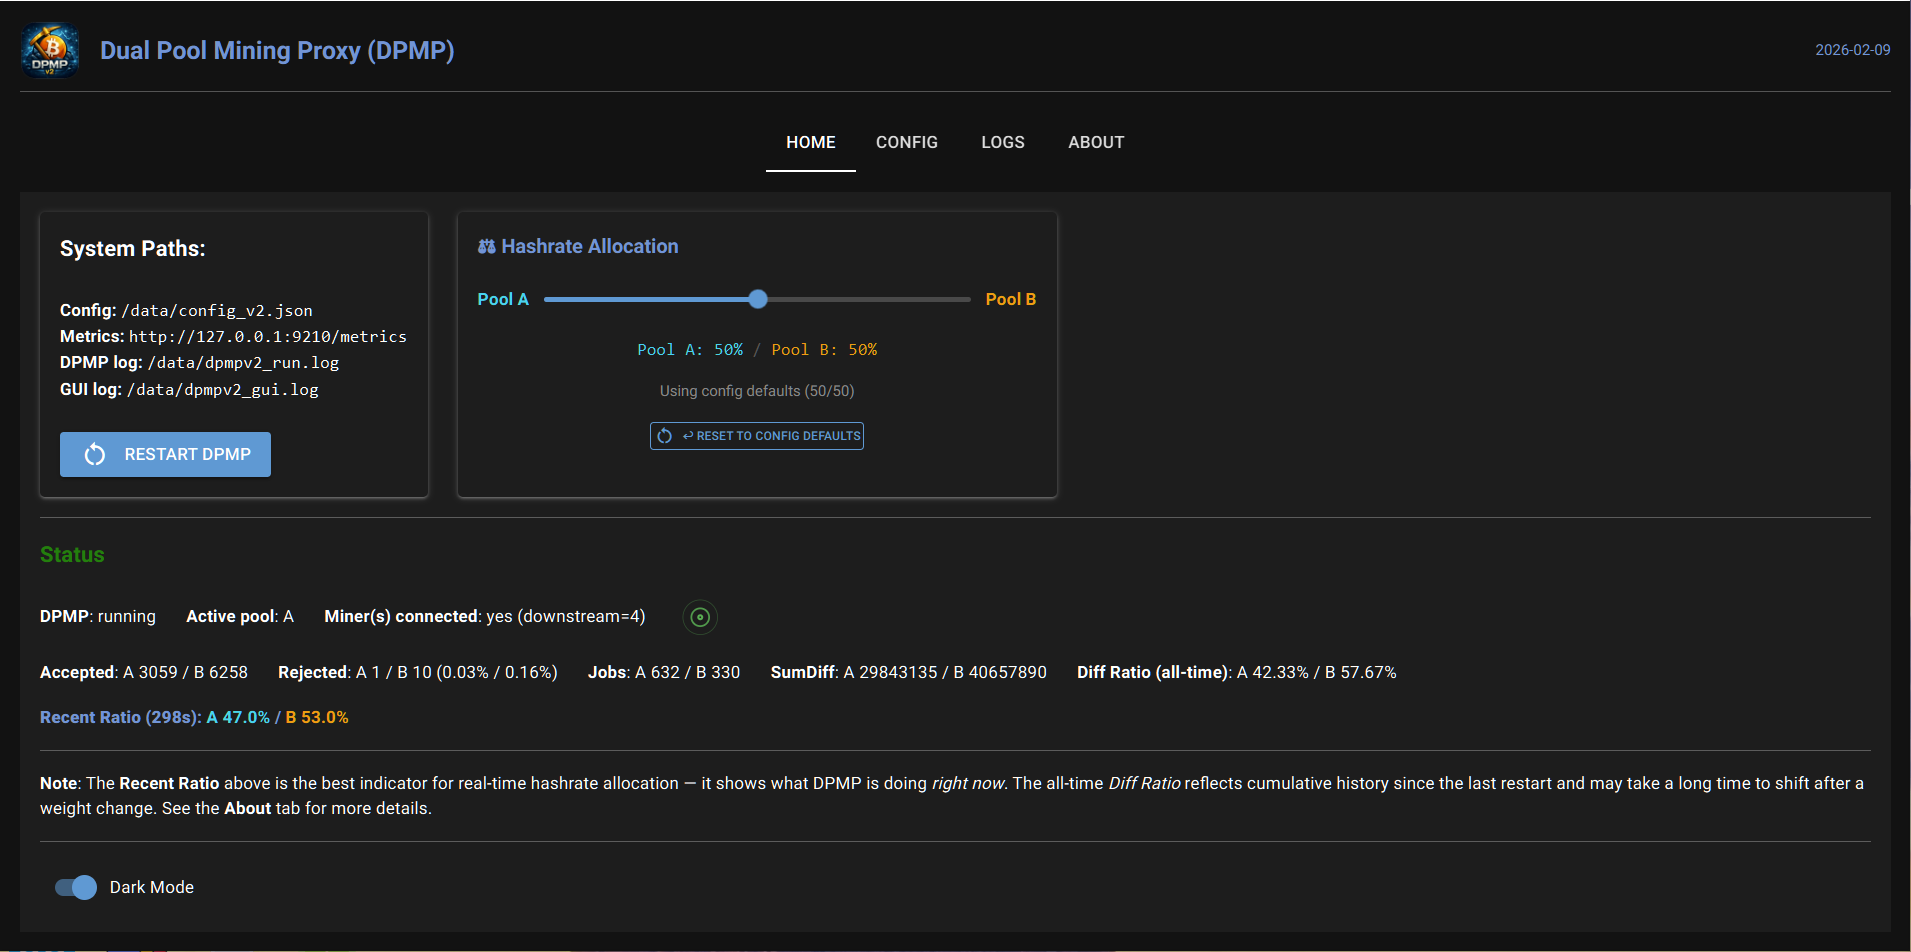
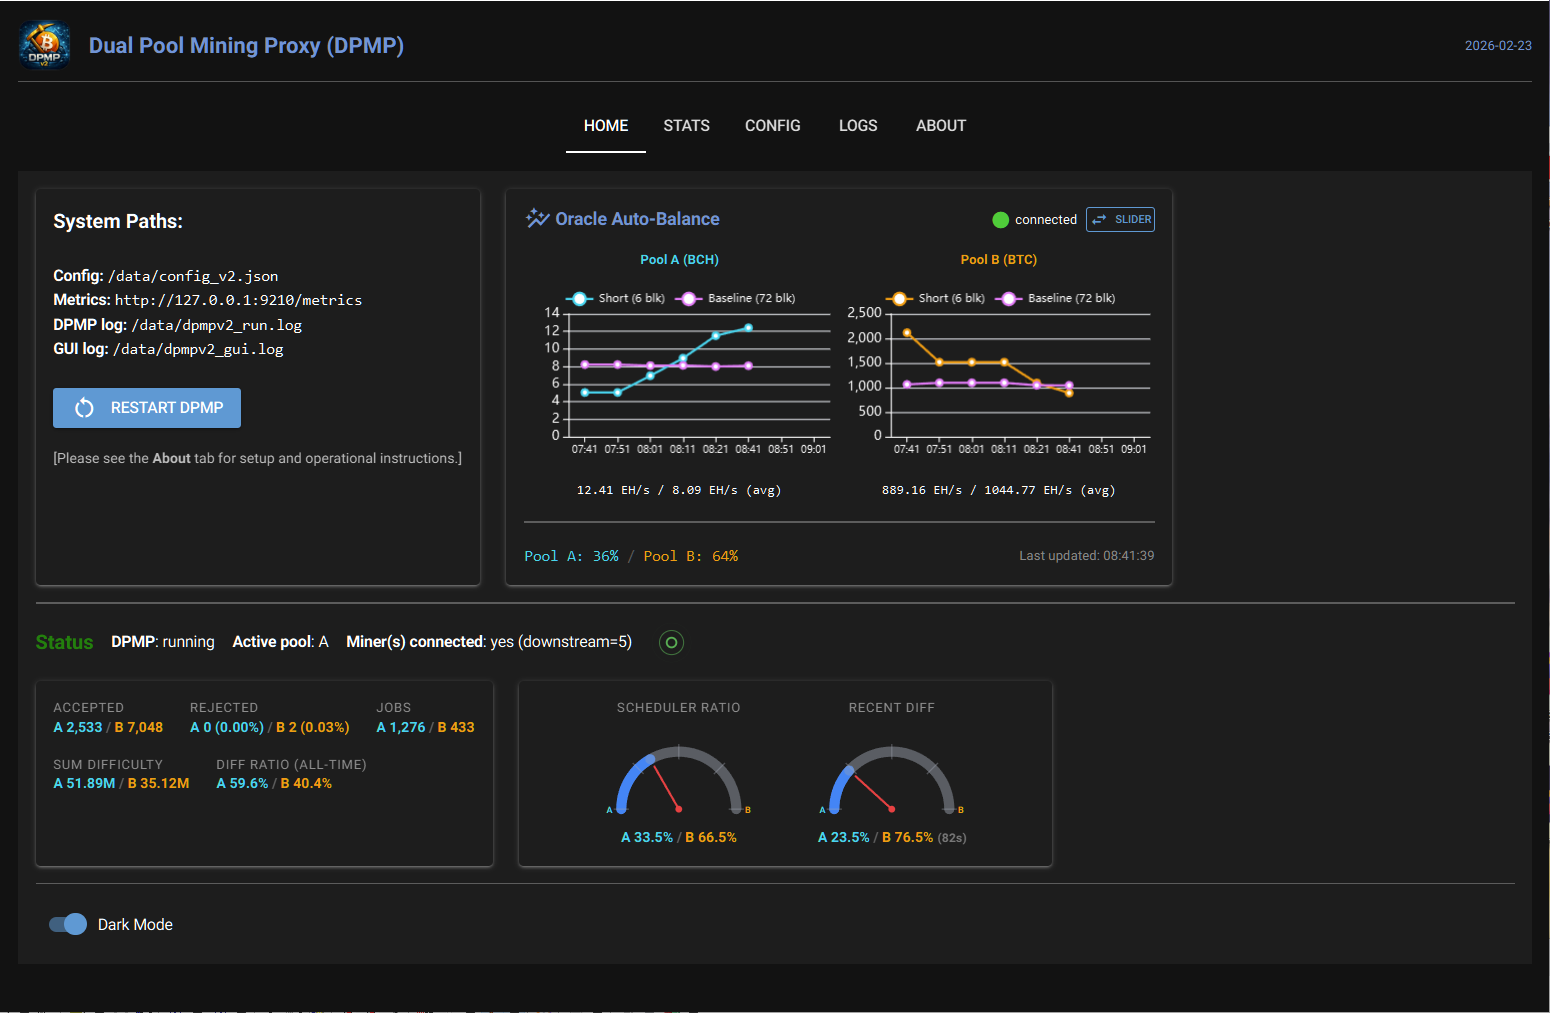
release: DPMP v3.0.3 (fleet module, GUI updates, image bump, metadata refresh)

diff --git a/README.md b/README.md
@@ -8,6 +8,12 @@ This repository contains the **v2 architecture**, which is a ground-up redesign 
 
 ---
 
+## Landing Page
+
+https://ckryza.github.io/dpmpv2/
+
+---
+
 ## Quick Install (UmbrelOS)
 
 In Umbrel, go into the App Store, click on the ellipsis at top-right and select "Community App Stores".
@@ -157,6 +163,12 @@ DPMP v2 is designed for users who:
 ---
 
 # Changelog
+
+## 3.0.3 - 2026-02-26
+- finalize fleet implementation
+- add Fleet table to Stats tab
+- address pool/miner compatibility issues
+- cosmetic updates
 
 ## 3.0.2 - 2026-02-17
 - add Stats tab with Worker and Pool tables
